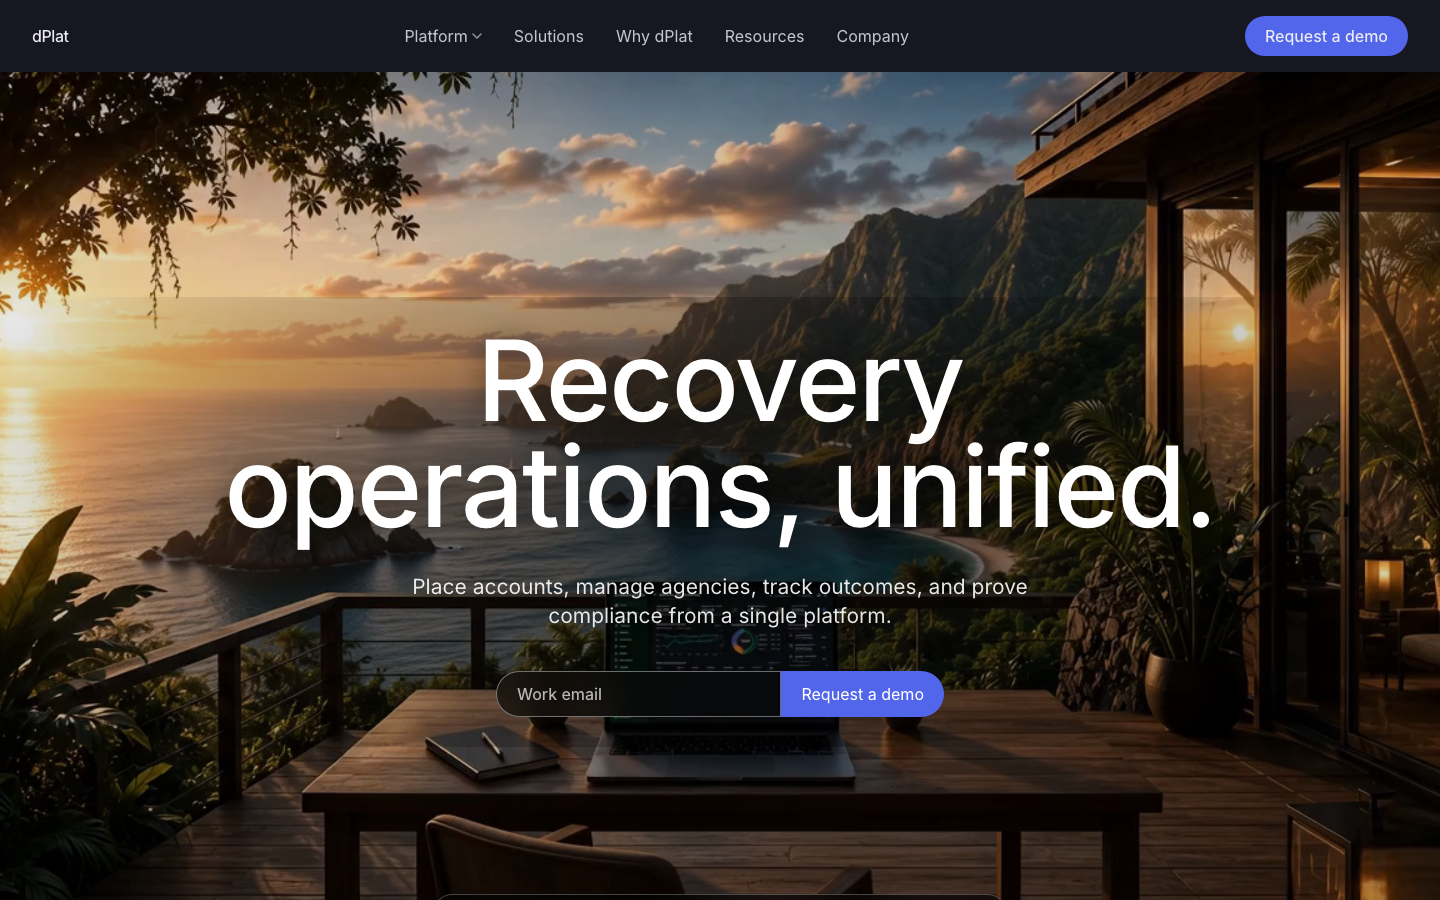
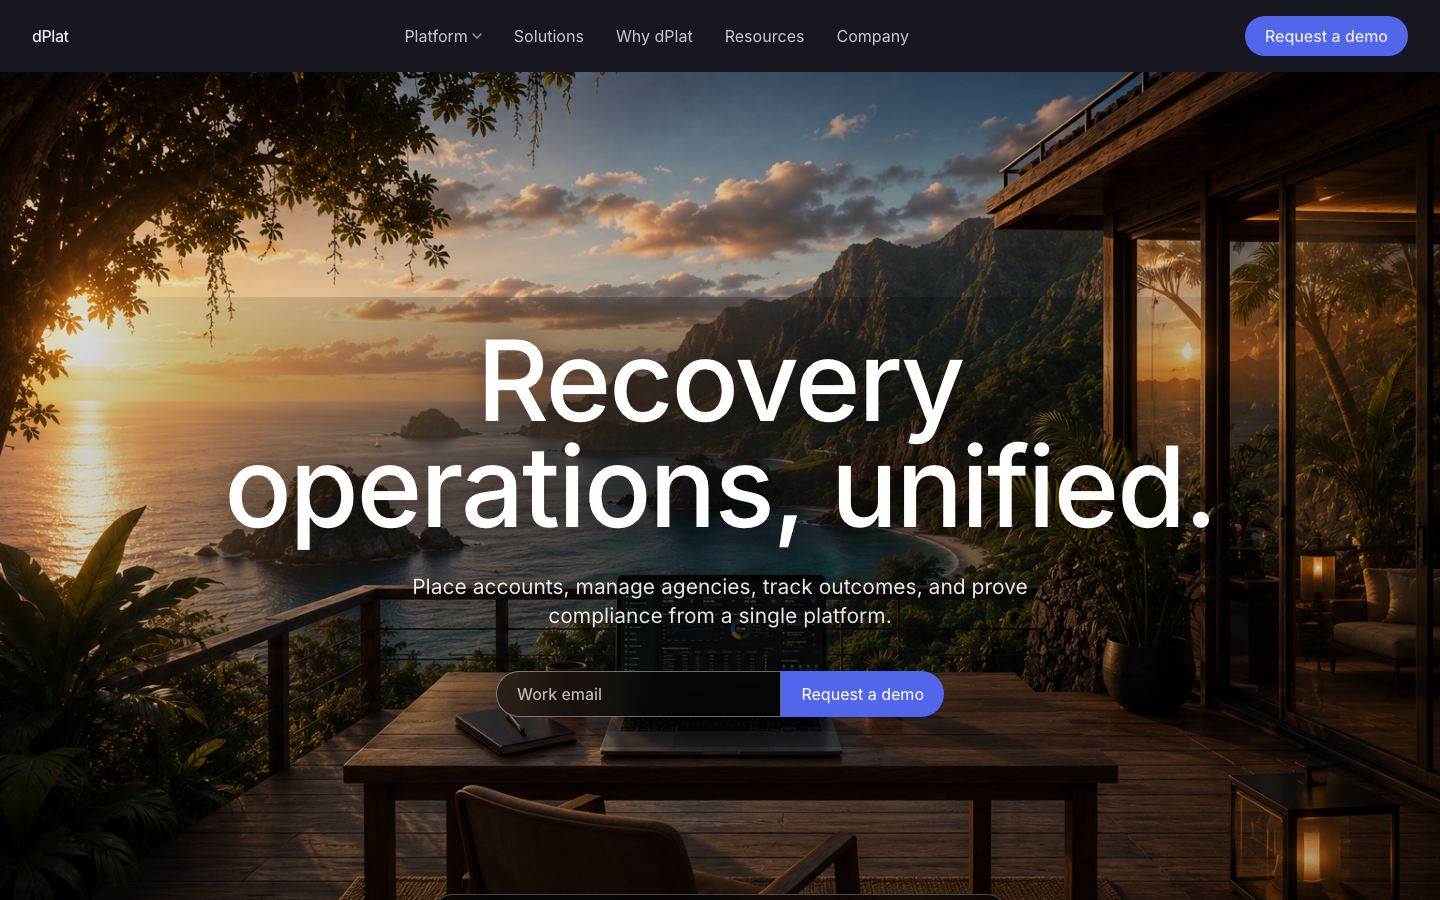
fix(hero): high-res PNG owns scrollY=0; video fades in once scroll begins
At rest, what filled the viewport was the video element holding its
first frame — a 1280x720 H.264 still that's noticeably softer than the
1536x1024 start-frame PNG underneath. The user effectively never saw
the original asset.

Fix:
- Video element now starts at opacity:0 inline so it doesn't paint over
  the PNG before GSAP wires up.
- onUpdate adds a videoIn ease (0 → 3% scrub) that fades the video in
  once the user actually starts scrolling. Final video opacity is
  videoIn * (1 - videoOut), so the late fade-out window still works.

Result: at scrollY=0 the user sees the full-resolution PNG. The first
3% of scroll fades the video in and the scrub takes over from there.

diff --git a/src/components/sections/HomepageHero.tsx b/src/components/sections/HomepageHero.tsx
@@ -82,6 +82,11 @@ export function HomepageHero() {
             overlay.style.opacity = String(1 - overlayOut);
             overlay.style.transform = `translateY(${-50 * overlayOut}px)`;
 
+            // Video fades IN once the user starts scrolling (0 → 3%) so
+            // at rest the high-res start-frame PNG owns the viewport.
+            // The video's first frame is lower resolution (1280×720) and
+            // would otherwise cover the 1536×1024 PNG.
+            const videoIn = ease(0.0, 0.03, p);
             // End-frame fades in 60 → 80% (behind the video for continuity)
             const endFrameIn = ease(0.6, 0.8, p);
             // Video fades out 70 → 88%
@@ -94,7 +99,8 @@ export function HomepageHero() {
             endFrame.style.opacity = String(endFrameIn);
             endFrame.style.transform = `translateX(${tx}%) scale(${scale})`;
             endFrame.style.transformOrigin = "center center";
-            video.style.opacity = String(1 - videoOut);
+            // Combine the fade-in and the late fade-out into one opacity
+            video.style.opacity = String(videoIn * (1 - videoOut));
           },
         });
       };
@@ -137,7 +143,9 @@ export function HomepageHero() {
           className="absolute inset-0 object-cover"
         />
 
-        {/* Video — scrubbed by scroll progress. */}
+        {/* Video — scrubbed by scroll progress. Starts at opacity 0 so the
+            high-res start-frame PNG is what fills the viewport at rest;
+            video fades in across the first 3% of scroll. */}
         {!isMobile && (
           <video
             ref={videoRef}
@@ -147,6 +155,7 @@ export function HomepageHero() {
             playsInline
             preload="auto"
             aria-hidden="true"
+            style={{ opacity: 0 }}
             className="absolute inset-0 h-full w-full object-cover motion-reduce:hidden"
           />
         )}